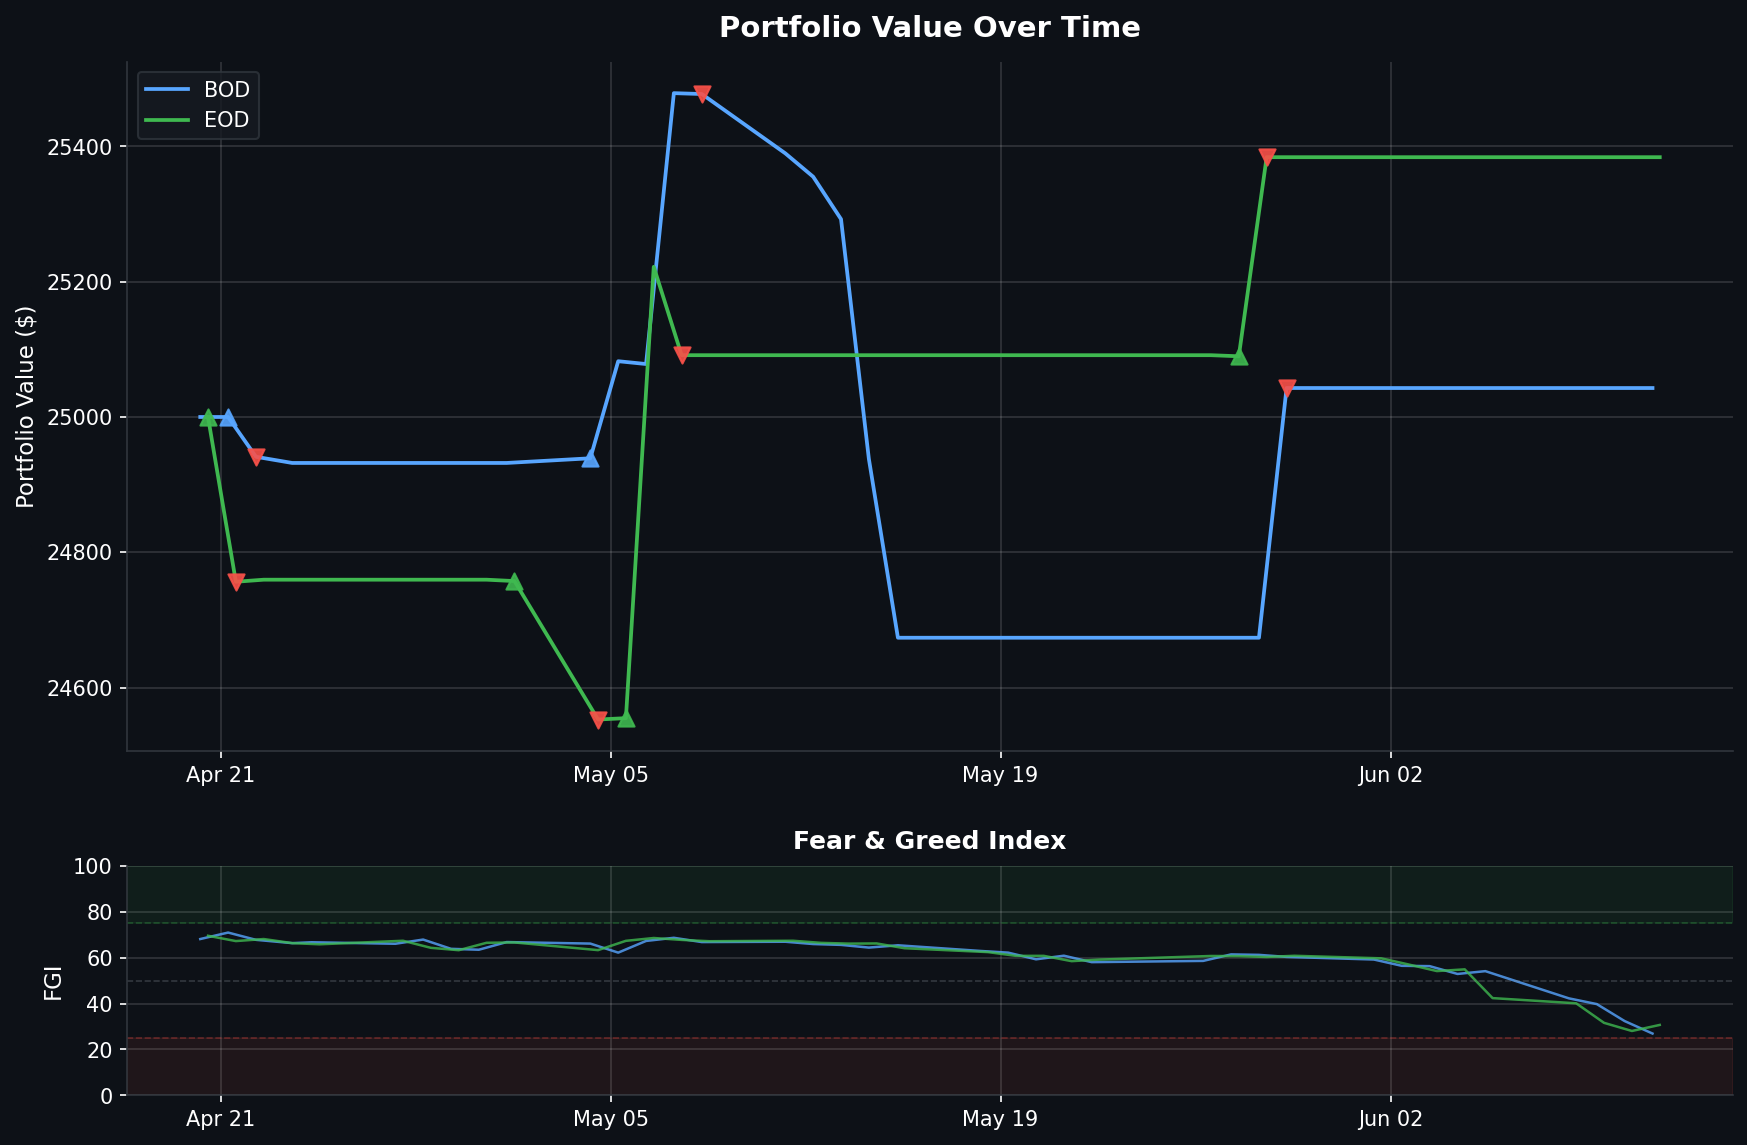
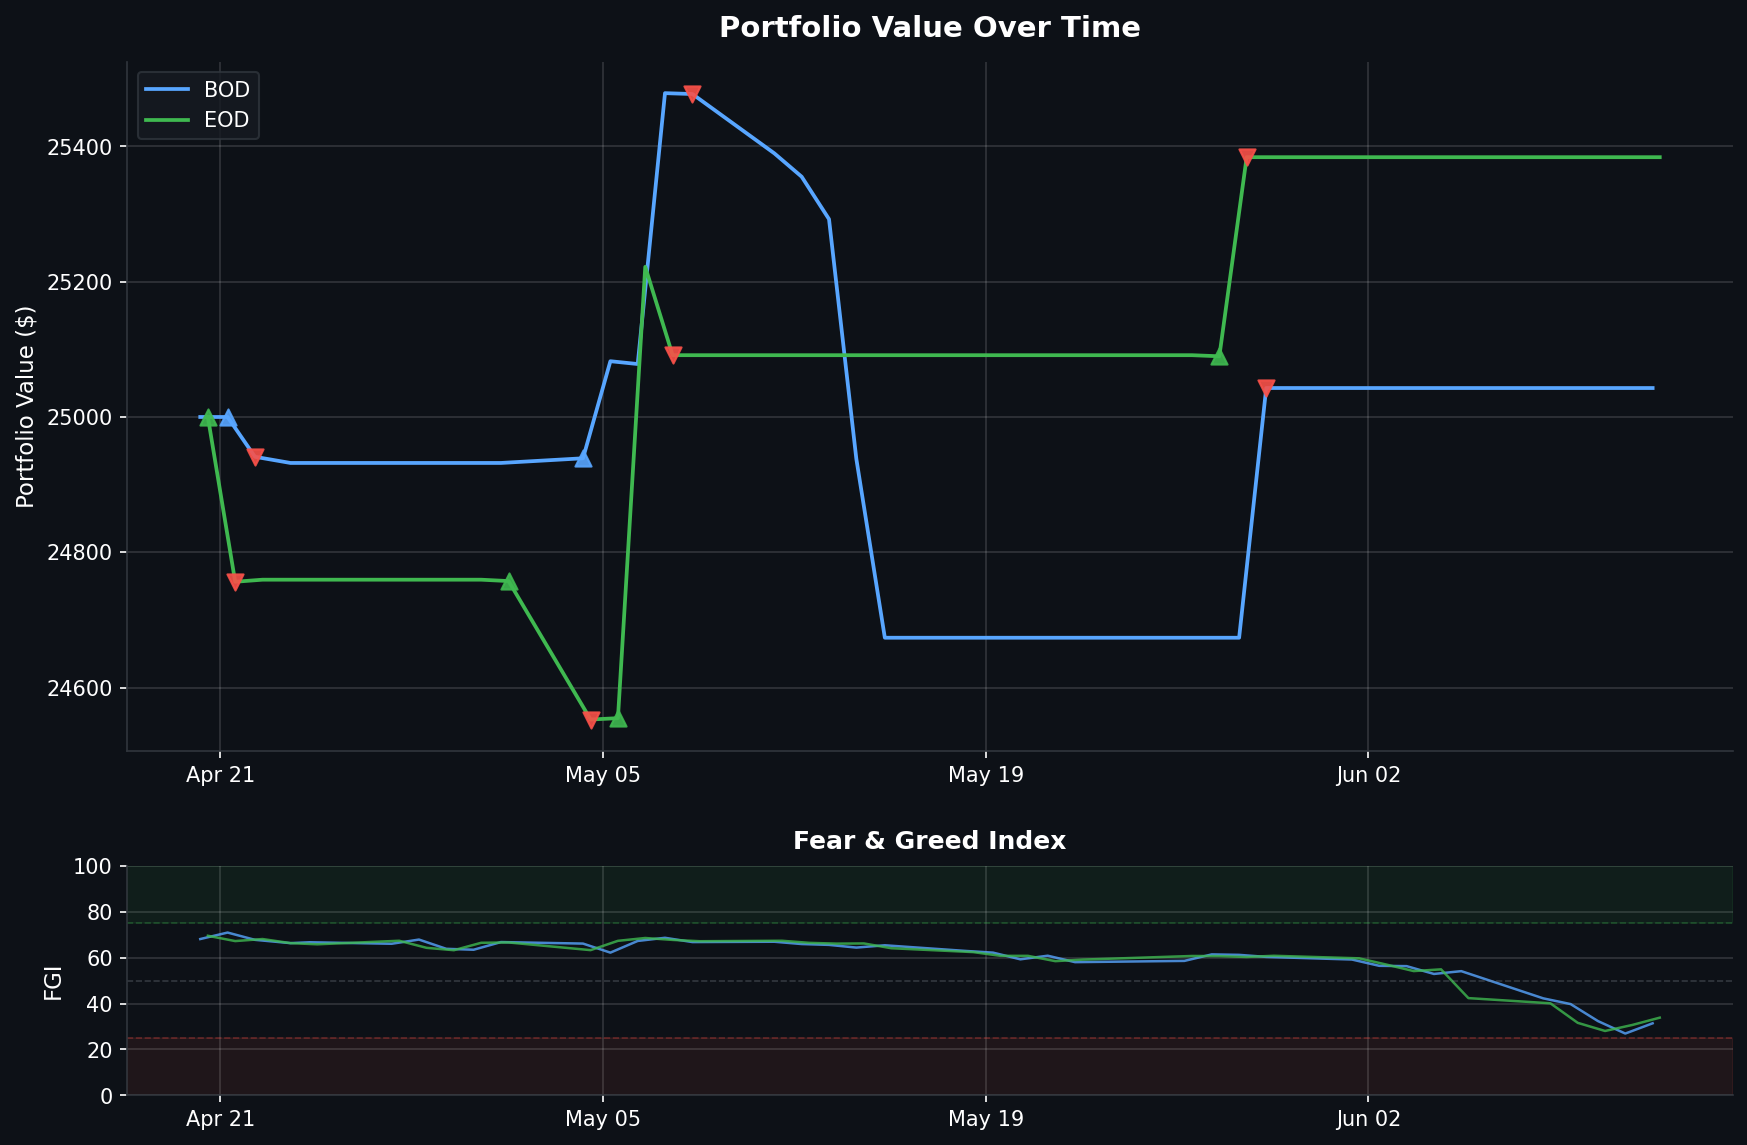
Daily data backup 2026-06-12

diff --git a/README.md b/README.md
@@ -1,6 +1,6 @@
 # Fear & Greed Index Trading Bot
 
-> Dashboard auto-updated daily at market close | Last update: **2026-06-11 13:30 PST**
+> Dashboard auto-updated daily at market close | Last update: **2026-06-12 13:30 PST**
 
 ![Portfolio Performance](assets/portfolio_chart.png)
 
@@ -12,12 +12,12 @@
 |--------|-------|
 | Portfolio Value | **$25,042.81** |
 | Buying Power | $100,171.24 |
-| Current FGI | 26.94 |
+| Current FGI | 31.4 |
 | Position | FLAT |
 | Total P&L | **$+995** |
 | Win Rate | 50% (1W / 1L) |
 | Total Round Trips | 2 |
-| Last Signal | NO_ACTION @ 2026-06-11 09:35 |
+| Last Signal | NO_ACTION @ 2026-06-12 09:35 |
 
 <details>
 <summary>Trade History (2 trades)</summary>
@@ -34,11 +34,11 @@
 
 | Time | Action | Price | FGI | Momentum | Velocity | Volatility | Reason |
 |------|--------|-------|-----|----------|----------|------------|--------|
+| 06-12 09:35 | NO_ACTION | $738.25 | 31.4 | 1.16 | -2.79 | 0.55 | Insufficient momentum/velocity for entry |
 | 06-11 09:35 | NO_ACTION | $727.08 | 26.94 | -6.09 | -5.11 | 0.55 | Insufficient momentum/velocity for entry |
 | 06-10 09:35 | NO_ACTION | $731.72 | 32.37 | -5.76 | -7.25 | 0.55 | Insufficient momentum/velocity for entry |
 | 06-09 09:35 | NO_ACTION | $743.88 | 39.77 | -5.61 | -4.37 | 0.55 | Insufficient momentum/velocity for entry |
 | 06-08 09:35 | NO_ACTION | $742.03 | 42.26 | -7.49 | -4.68 | 0.55 | Insufficient momentum/velocity for entry |
-| 06-05 09:35 | NO_ACTION | $752.43 | 54.11 | -0.32 | -0.77 | 0.55 | Insufficient momentum/velocity for entry |
 
 </details>
 
@@ -50,12 +50,12 @@
 |--------|-------|
 | Portfolio Value | **$25,384.10** |
 | Buying Power | $101,536.40 |
-| Current FGI | 30.69 |
+| Current FGI | 33.86 |
 | Position | FLAT |
 | Total P&L | **$+302** |
 | Win Rate | 50% (2W / 2L) |
 | Total Round Trips | 4 |
-| Last Signal | NO_ACTION @ 2026-06-11 15:50 |
+| Last Signal | NO_ACTION @ 2026-06-12 15:50 |
 
 <details>
 <summary>Trade History (4 trades)</summary>
@@ -74,11 +74,11 @@
 
 | Time | Action | Price | FGI | Momentum | Velocity | Volatility | Reason |
 |------|--------|-------|-----|----------|----------|------------|--------|
+| 06-12 15:50 | NO_ACTION | $741.06 | 33.86 | 2.99 | 0.75 | 0.55 | BUY did not fill after 3 attempts |
 | 06-11 15:50 | NO_ACTION | $737.93 | 30.69 | 0.57 | -3.14 | 0.55 | Insufficient momentum/velocity for entry |
 | 06-10 15:50 | NO_ACTION | $725.69 | 28.06 | -5.20 | -4.77 | 0.55 | Insufficient momentum/velocity for entry |
 | 06-09 15:50 | NO_ACTION | $733.51 | 31.6 | -6.43 | -7.76 | 0.55 | Insufficient momentum/velocity for entry |
 | 06-08 15:50 | NO_ACTION | $739.67 | 40.11 | -5.68 | -4.68 | 0.55 | Insufficient momentum/velocity for entry |
-| 06-05 15:50 | NO_ACTION | $738.68 | 42.37 | -8.10 | -4.87 | 0.55 | Insufficient momentum/velocity for entry |
 
 </details>
 
